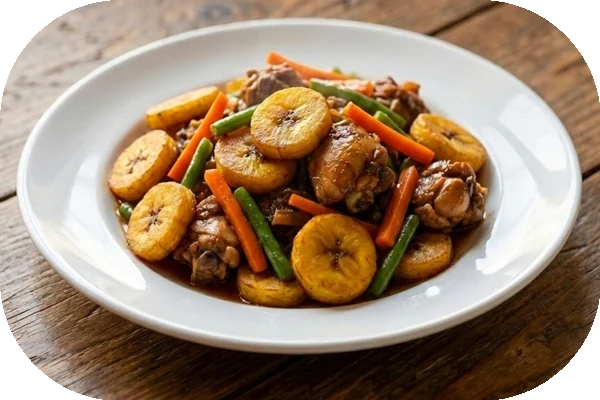
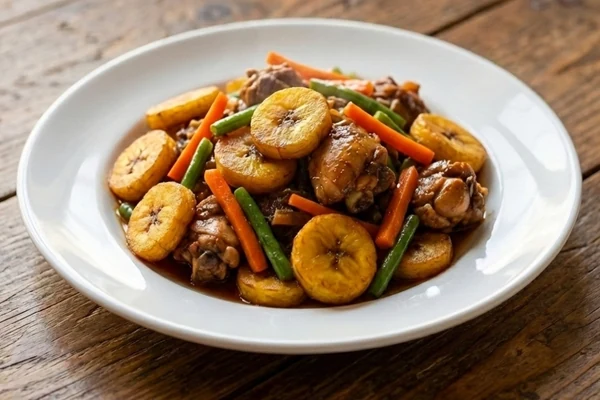
S

diff --git a/client/src/pages/Home.tsx b/client/src/pages/Home.tsx
@@ -50,7 +50,7 @@ const copy = {
   },
   fr: {
     heroSubtitle: "Repas frais, Livraisons instantanées",
-    orderNow: "Commander sur WhatsApp",
+    orderNow: "WhatsApp",
     menuTitle: "Menu du jour",
     menuSubtitle: "Choisissez parmi les plats disponibles aujourd'hui.",
     loading: "Chargement du menu du jour...",
@@ -174,7 +174,7 @@ function Home() {
 
     const timer = window.setInterval(() => {
       carouselApi.scrollNext();
-    }, 3200);
+    }, 4200);
 
     return () => {
       window.clearInterval(timer);
@@ -355,11 +355,15 @@ function Home() {
               </div>
             </div>
             <div className="mx-auto w-full max-w-[340px] lg:mx-0 lg:justify-self-end">
-              <Carousel setApi={setCarouselApi} opts={{ loop: true }} className="w-full">
-                <CarouselContent className="-ml-0">
+              <Carousel
+                setApi={setCarouselApi}
+                opts={{ loop: true, duration: 42 }}
+                className="w-full"
+              >
+                <CarouselContent className="-ml-6">
                   {HERO_CAROUSEL_IMAGES.map((image, index) => (
-                    <CarouselItem key={image.src600} className="pl-0">
-                      <div className="overflow-hidden rounded-[28%] border border-white/20 bg-white/10 shadow-lg shadow-black/30">
+                    <CarouselItem key={image.src600} className="pl-6">
+                      <div className="overflow-hidden rounded-[18px] border border-white/20">
                         <img
                           src={image.src600}
                           srcSet={`${image.src360} 360w, ${image.src600} 600w`}

diff --git a/scripts/prepare_carousel_images.py b/scripts/prepare_carousel_images.py
@@ -4,7 +4,7 @@ import argparse
 import re
 from pathlib import Path
 
-from PIL import Image, ImageDraw, ImageOps
+from PIL import Image, ImageOps
 
 
 VALID_EXTENSIONS = {".jpg", ".jpeg", ".png", ".webp"}
@@ -35,22 +35,14 @@ def get_height_from_width(width: int) -> int:
     return int(round(width * TARGET_RATIO_HEIGHT / TARGET_RATIO_WIDTH))
 
 
-def make_canvas(image: Image.Image, width: int, height: int) -> Image.Image:
-    background = Image.new("RGB", (width, height), (26, 12, 12))
-    fit = image.copy()
-    fit.thumbnail((width, height), Image.Resampling.LANCZOS, reducing_gap=3.0)
-    left = (width - fit.width) // 2
-    top = (height - fit.height) // 2
-    background.paste(fit, (left, top))
-    return background
-
-
-def make_squircle_mask(width: int, height: int) -> Image.Image:
-    mask = Image.new("L", (width, height), 0)
-    draw = ImageDraw.Draw(mask)
-    radius = int(min(width, height) * 0.30)
-    draw.rounded_rectangle((0, 0, width, height), radius=radius, fill=255)
-    return mask
+def make_filled_frame(image: Image.Image, width: int, height: int) -> Image.Image:
+    # Force full-bleed output at target ratio so there are no edge gaps.
+    return ImageOps.fit(
+        image,
+        (width, height),
+        method=Image.Resampling.LANCZOS,
+        centering=(0.5, 0.5),
+    )
 
 
 def process_image(source: Path, output_dir: Path, widths: list[int], quality: int) -> list[Path]:
@@ -62,11 +54,10 @@ def process_image(source: Path, output_dir: Path, widths: list[int], quality: in
 
     for width in widths:
         height = get_height_from_width(width)
-        canvas = make_canvas(image, width, height).convert("RGBA")
-        canvas.putalpha(make_squircle_mask(width, height))
+        frame = make_filled_frame(image, width, height).convert("RGB")
 
         output_path = output_dir / f"{slug}-{width}x{height}.webp"
-        canvas.save(
+        frame.save(
             output_path,
             format="WEBP",
             quality=quality,
